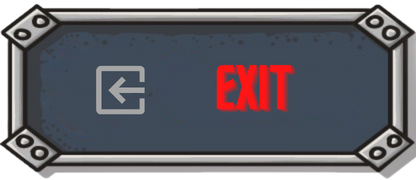
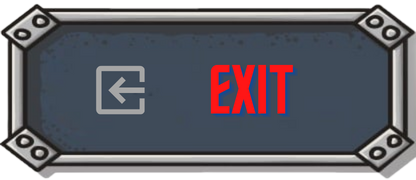
Changed Exit button on Main Menu Screen and Main Game Screen
Made new exit button to maintain the design consistency of the game

Changed region(s): [[0.5, 0.3611, 0.7188, 0.6667]]

diff --git a/source/core/src/main/com/deco2800/game/components/mainmenu/MainMenuDisplay.java b/source/core/src/main/com/deco2800/game/components/mainmenu/MainMenuDisplay.java
@@ -80,9 +80,9 @@ public class MainMenuDisplay extends UIComponent {
       // exit button
       Button.ButtonStyle exitStyle = new Button.ButtonStyle();
       exitStyle.up= new TextureRegionDrawable(new TextureRegion(
-              new Texture(Gdx.files.internal("images/btn_exit1.png"))));
+              new Texture(Gdx.files.internal("images/NewBtn_exit1.png"))));
       exitStyle.over= new TextureRegionDrawable(new TextureRegion(
-              new Texture(Gdx.files.internal("images/btn_exit2.png"))));
+              new Texture(Gdx.files.internal("images/NewBtn_exit2.png"))));
       Button exitBtn = new Button(exitStyle);
 
         // Triggers an event when the button is pressed

diff --git a/source/core/src/main/com/deco2800/game/components/maingame/MainGameExitDisplay.java b/source/core/src/main/com/deco2800/game/components/maingame/MainGameExitDisplay.java
@@ -50,9 +50,9 @@ public class MainGameExitDisplay extends UIComponent {
    //Creates exit button
     Button.ButtonStyle exitStyle = new Button.ButtonStyle();
     exitStyle.up= new TextureRegionDrawable(new TextureRegion(
-            new Texture(Gdx.files.internal("images/btn_exit1.png"))));
+            new Texture(Gdx.files.internal("images/NewBtn_exit1.png"))));
     exitStyle.over= new TextureRegionDrawable(new TextureRegion(
-            new Texture(Gdx.files.internal("images/btn_exit2.png"))));
+            new Texture(Gdx.files.internal("images/NewBtn_exit2.png"))));
     Button mainMenuBtn = new Button(exitStyle);
 
     // Triggers an event when the button is pressed.
